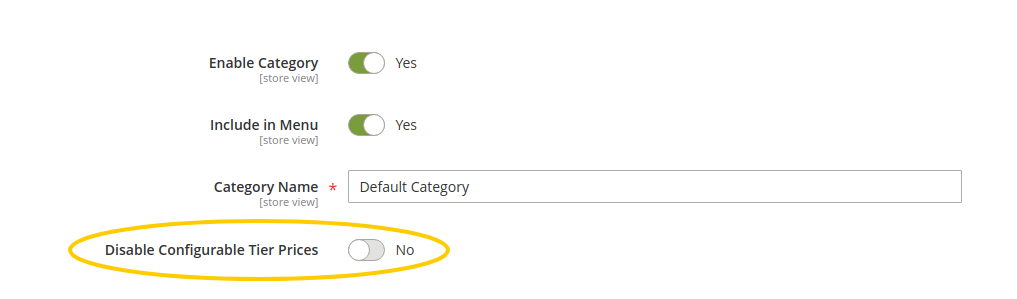
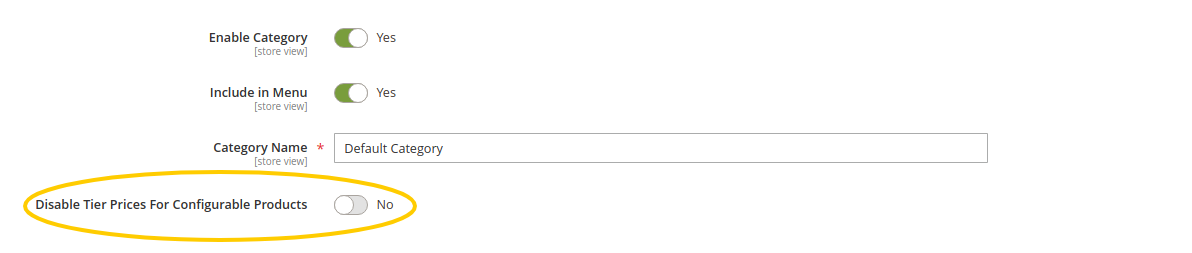
updated CTP M2 docs

Changed region(s): [[0.0, 0.5257, 0.9449, 0.9684], [0.1524, 0.332, 0.4267, 0.498], [0.1524, 0.1107, 0.4267, 0.2767]]

diff --git a/pages/tier-prices-for-configurable-products-m2.md b/pages/tier-prices-for-configurable-products-m2.md
@@ -9,40 +9,41 @@ sidebar: ctp_m2_sidebar
 This extension for Magento 2 changes the way Magento calculates tier prices of configurable products. You can add different variations of a configurable product to the cart and you will receive the tier price for the total quantity of all variations in the cart.
 
 ### Example
-There is a configurable product "Awesome T-Shirt" and there are two corresponding variations "green" and "orange". 
-The price for each t-shirt is 20 US-Dollar. 
-If you buy five or more green ones, you only have to pay 18 US-Dollar each. 
-If you buy five or more of the orange ones, you only have to pay 16 US-Dollar each. 
-Now you add three green and two orange t-shirts to your cart. 
-What would you expect? You would like to have the t-shirts for 16 US-Dollar each or at least for 18 US-Dollar each, right?
-Not with Magento. Unfortunately, Magento will charge you 20 US-Dollar each:
+There is a configurable product "Awesome T-Shirt" and there are two corresponding variations "green" and "orange".
+The price for each t-shirt is 20 USD.
+If you buy five or more green ones, you only have to pay 18 USD each.
+If you buy five or more of the orange ones, you only have to pay 16 USD each.
+Now you add three green and two orange t-shirts to your cart.
+What would you expect? You would like to have the t-shirts for 16 USD each or at least for 18 USD each, right?
+Not with Magento. Unfortunately, Magento will charge you 20 USD each:
 
 ![Tier Prices Without CustomGento_ConfigurableTierPrices]({{ "images/tier-prices-for-configurable-products-m2/tier-prices-before.png" }} "Tier Prices Without CustomGento_ConfigurableTierPrices")
 
 Fortunately, you can install the module Tier Prices For Configurable Products and even decide if the highest, 
-the lowest or the respective tier price of the product shall be charged.
+the lowest or the respective tier price of the product should be charged.
 
-If the highest price is charged, you get the t-shirts for 18 US-Dollar each:
+If you configure the extension to charge the highest tier price, you get the t-shirts for 18 USD each:
 
-![Tier Prices With CustomGento_ConfigurableTierPrices]({{ "images/tier-prices-for-configurable-products-m2/tier-prices-after-highest.png" }} "Tier Prices With CustomGento_ConfigurableTierPrices")
+![Tier Prices With CustomGento_ConfigurableTierPrices - Highest Tier Price]({{ "images/tier-prices-for-configurable-products-m2/tier-prices-after-highest.png" }} "Tier Prices With CustomGento_ConfigurableTierPrices")
 
-If the lowest price is charged, you get the t-shirts for 16 US-Dollar each:
+If you configure the extension to charge the lowest tier price, you get the t-shirts for 16 USD each:
 
-![Tier Prices With CustomGento_ConfigurableTierPrices]({{ "images/tier-prices-for-configurable-products-m2/tier-prices-after-lowest.png" }} "Tier Prices With CustomGento_ConfigurableTierPrices")
+![Tier Prices With CustomGento_ConfigurableTierPrices - Lowest Tier Price]({{ "images/tier-prices-for-configurable-products-m2/tier-prices-after-lowest.png" }} "Tier Prices With CustomGento_ConfigurableTierPrices")
 
-And you can even choose that the respective tier prices shall be taken. So you for the green ones 18 US-Dollar each and for the orange ones 16 US-Dollar each respectively.
+And you can even configure that the respective tier prices should be charged.
+In this case, you get the green ones for 18 USD each and the orange ones for 16 USD each.
 
-![Tier Prices With CustomGento_ConfigurableTierPrices]({{ "images/tier-prices-for-configurable-products-m2/tier-prices-after-respective.png" }} "Tier Prices With CustomGento_ConfigurableTierPrices")
-
+![Tier Prices With CustomGento_ConfigurableTierPrices - Respective Tier Price]({{ "images/tier-prices-for-configurable-products-m2/tier-prices-after-respective.png" }} "Tier Prices With CustomGento_ConfigurableTierPrices")
 
 ## Requirements
-- PHP >= 7.0
-- magento/module-catalog
-- magento/module-eav
-- magento/module-store
-- magento/module-backend
-- magento/framework
-- magento/checkout
+- PHP `~7.0.0|~7.1.0`
+- magento/framework `101.0.0|101.0.1|101.0.2`
+- magento/module-backend `~100.2`
+- magento/module-catalog `~102.0`
+- magento/module-checkout `~100.2`
+- magento/module-eav `~101.0`
+- magento/module-quote `~101.0`
+- magento/module-store `~100.2`
 
 ## Compatibility
 - Magento >= 2.2
@@ -51,24 +52,32 @@ And you can even choose that the respective tier prices shall be taken. So you f
 // TODO
 
 ## Configuration
-You find the settings under Stores > Configuration > Sales > Sales > Configurable Tier Prices.
-You can enable the extension there and also choose the tier price calculation type.
+You find the settings under Stores > Configuration > Sales > Sales > Tier Prices For Configurable Products.
+You can enable the extension there and also choose the tier price calculation type:
 
 ![Configure Tier Prices For Configurable Products]({{ "images/tier-prices-for-configurable-products-m2/system-configuration.png" }} "Configure Tier Prices For Configurable Products")
 
 It is also possible to disable the updated price calculation for specific categories or products.
-Therefore, you can set the attribute `configurabletierprice_disabled` / " Disable Configurable Tier Prices" in the top section of the configurable product respectively the category to "Yes":
+Therefore, you can set the attribute `configurabletierprice_disabled` / "Disable Tier Prices For Configurable Products" to "Yes" in the configurable product or the category respectively.
+
+Disable Tier Prices For Configurable Products in the configurable product:
+
+![Disable Tier Prices For Configurable Products By Product]({{ "images/tier-prices-for-configurable-products-m2/disable-by-product.png" }} "Disable Tier Prices For Configurable Products By Category")
+
+Disable Tier Prices For Configurable Products in the category:
 
 ![Disable Tier Prices For Configurable Products By Category]({{ "images/tier-prices-for-configurable-products-m2/disable-by-category.png" }} "Disable Tier Prices For Configurable Products By Category")
-  
-## Troubleshooting - I installed the extension, but it does not work
 
+If Tier Prices For Configurable Products is disabled for a specific product or for any category this product is assigned to, the extension will not change the price calculation of this product at all.
+
+## Troubleshooting - I installed the extension, but it does not work
 1. Do you use the latest version of the extension?
-2. Do you really use configurable products? This extension only works with configurable products. It does not work if you use e.g. simple products with custom options.
-3. Make sure that the extension is **not**  disabled under Stores > Configuration > Sales > Sales > Configurable Tier Prices.
-4. Make sure that the configurable product is **not** in one of the disabled categories.
-5. Make sure that the extension is **not**  disabled in the respective configurable product.
-6. Make sure that your tier prices are lower than the normal prices. That is the way they are supposed to be used.
+2. Do you use Magento >= 2.2?
+3. Do you really use configurable products? This extension only works with configurable products. It does not work if you use e.g. simple products with custom options.
+4. Make sure that the extension is **not** disabled under Stores > Configuration > Sales > Sales > Tier Prices For Configurable Products.
+5. Make sure that the configurable product is **not** in one of the disabled categories.
+6. Make sure that the extension is **not** disabled in the respective configurable product.
+7. Make sure that your tier prices are lower than the normal prices. That is the way they are supposed to be used.
 
 ## Uninstallation
 // TODO
